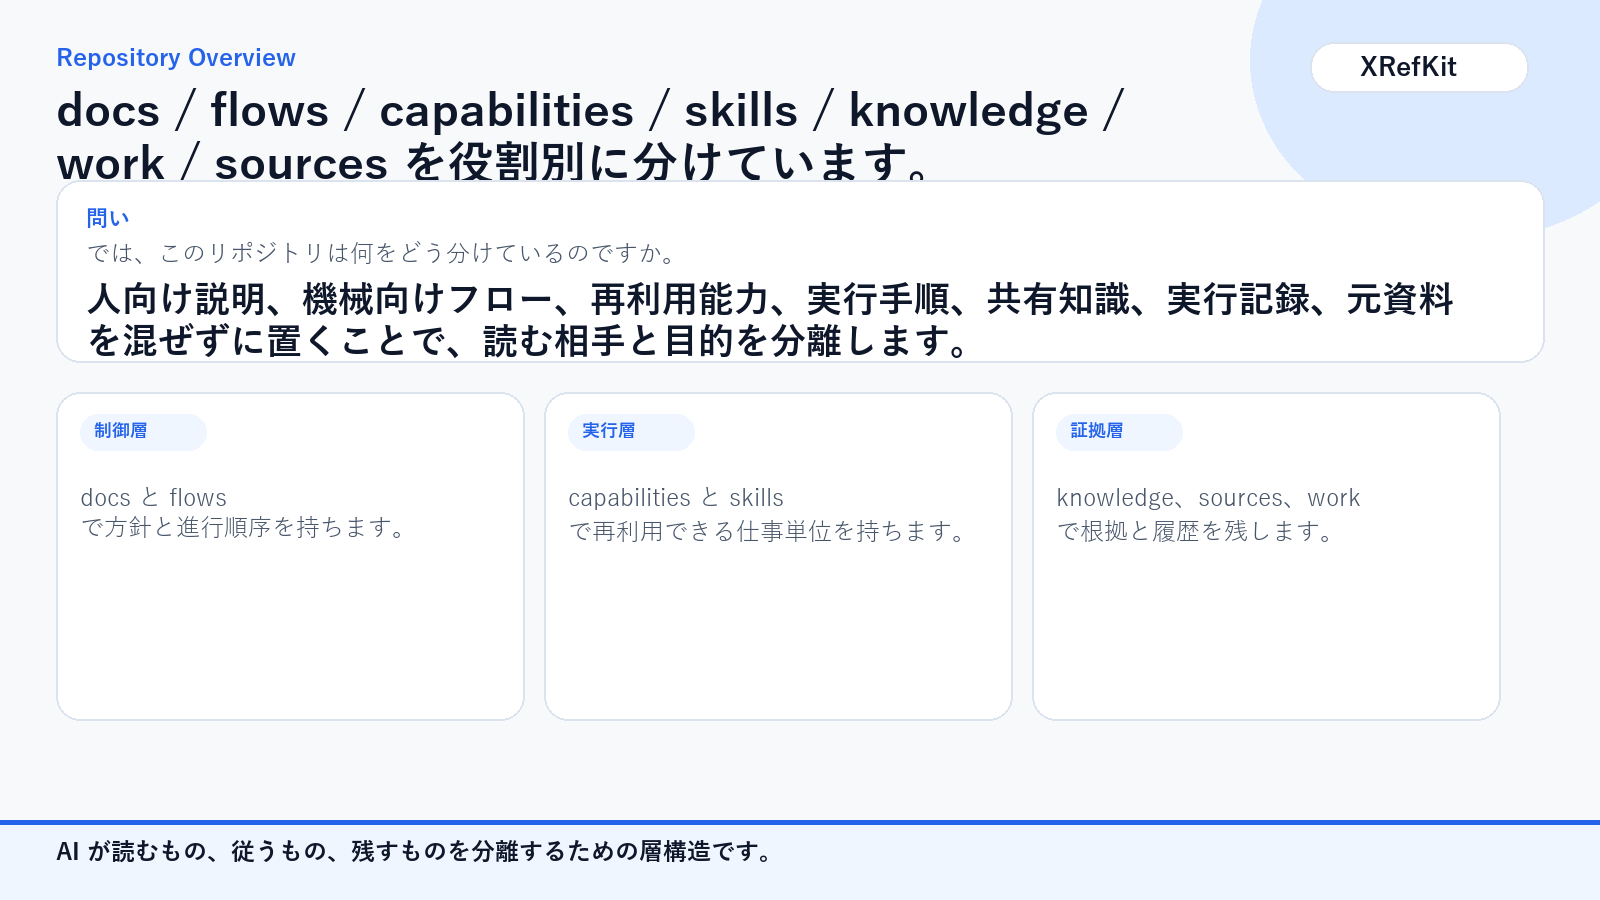
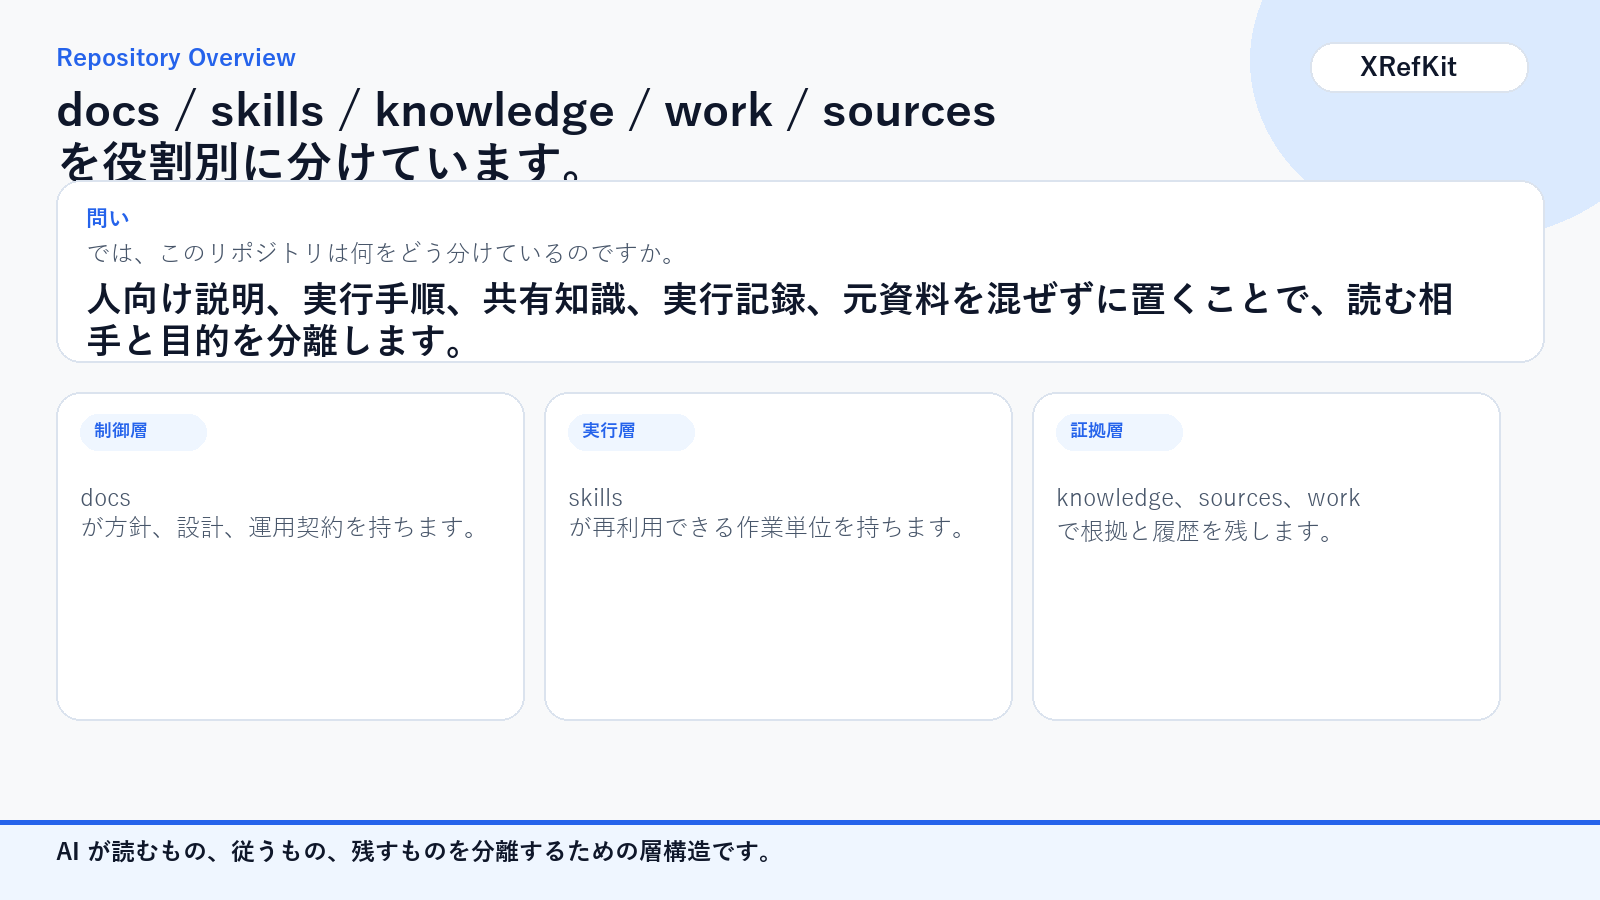
Update repository-overview deck to skill-centric model
Rewrite the 065 explainer slides that depicted the removed Flow and
Capability layers: the layers slide now separates docs / skills /
knowledge / work / sources (dropping flows/ and capabilities/), the
"needs" slide drops 流れ・能力, and the guard slide lists Skill contract
and workflow protocol instead of flow/capability. Regenerate the PIL
PNGs and the HTML from the updated render sources.

diff --git a/human-docs/ja/assets/065_xrefkit_repository_overview/03_layers.html b/human-docs/ja/assets/065_xrefkit_repository_overview/03_layers.html
@@ -2,7 +2,7 @@
 <html lang="ja">
 <head>
   <meta charset="utf-8" />
-  <title>`docs / flows / capabilities / skills / knowledge / work / sources` を役割別に分けています。</title>
+  <title>`docs / skills / knowledge / work / sources` を役割別に分けています。</title>
   <style>:root {
   --bg: #f8f9fa;
   --panel: #ffffff;
@@ -208,23 +208,23 @@ body {
     <header class="header">
       <div>
         <div class="eyebrow">Repository Overview</div>
-        <h1 class="title">`docs / flows / capabilities / skills / knowledge / work / sources` を役割別に分けています。</h1>
+        <h1 class="title">`docs / skills / knowledge / work / sources` を役割別に分けています。</h1>
       </div>
       <div class="brand">XRefKit</div>
     </header>
     <section class="summary">
       <div class="summary-label">問い</div>
       <div class="summary-copy">では、このリポジトリは何をどう分けているのですか。</div>
-      <div class="summary-title">人向け説明、機械向けフロー、再利用能力、実行手順、共有知識、実行記録、元資料を混ぜずに置くことで、読む相手と目的を分離します。</div>
+      <div class="summary-title">人向け説明、実行手順、共有知識、実行記録、元資料を混ぜずに置くことで、読む相手と目的を分離します。</div>
     </section>
     <section class="cards">
       <article class="card">
         <div class="card-tag">制御層</div>
-        <p>`docs` と `flows` で方針と進行順序を持ちます。</p>
+        <p>`docs` が方針、設計、運用契約を持ちます。</p>
       </article>
       <article class="card">
         <div class="card-tag">実行層</div>
-        <p>`capabilities` と `skills` で再利用できる仕事単位を持ちます。</p>
+        <p>`skills` が再利用できる作業単位を持ちます。</p>
       </article>
       <article class="card">
         <div class="card-tag">証拠層</div>

diff --git a/human-docs/ja/assets/065_xrefkit_repository_overview/02_not_docs.html b/human-docs/ja/assets/065_xrefkit_repository_overview/02_not_docs.html
@@ -224,7 +224,7 @@ body {
       </article>
       <article class="card">
         <div class="card-tag">必要な追加</div>
-        <p>知識の置き場所だけでなく、流れ、能力、Skill、記録の境界が必要です。</p>
+        <p>知識の置き場所だけでなく、Skill、記録、境界の定義が必要です。</p>
       </article>
       <article class="card">
         <div class="card-tag">結果</div>

diff --git a/human-docs/ja/assets/065_xrefkit_repository_overview/05_guard.html b/human-docs/ja/assets/065_xrefkit_repository_overview/05_guard.html
@@ -220,7 +220,7 @@ body {
     <section class="cards">
       <article class="card">
         <div class="card-tag">守るもの</div>
-        <p>startup policy、flow、capability、Skill contract などの上位制御です。</p>
+        <p>startup policy、Skill contract、workflow protocol などの上位制御です。</p>
       </article>
       <article class="card">
         <div class="card-tag">許すもの</div>

diff --git a/human-docs/ja/assets/065_xrefkit_repository_overview/03_layers_q.html b/human-docs/ja/assets/065_xrefkit_repository_overview/03_layers_q.html
@@ -2,7 +2,7 @@
 <html lang="ja">
 <head>
   <meta charset="utf-8" />
-  <title>`docs / flows / capabilities / skills / knowledge / work / sources` を役割別に分けています。</title>
+  <title>`docs / skills / knowledge / work / sources` を役割別に分けています。</title>
   <style>:root {
   --bg: #f8f9fa;
   --panel: #ffffff;

diff --git a/human-docs/ja/assets/065_xrefkit_repository_overview/render_pngs.py b/human-docs/ja/assets/065_xrefkit_repository_overview/render_pngs.py
@@ -39,7 +39,7 @@ SLIDES = [
         "copy": "ファイルがあるだけでは、知識の場所、手順の境界、判断の責任、確認のしかたが毎回ゆらぎます。XRefKit はその揺れを構造で減らします。",
         "cards": [
             ("保管だけの問題", "AI が毎回広く読んで迷い、古い文脈や余計な断片も拾いやすくなります。"),
-            ("必要な追加", "知識の置き場所だけでなく、流れ、能力、Skill、記録の境界が必要です。"),
+            ("必要な追加", "知識の置き場所だけでなく、Skill、記録、境界の定義が必要です。"),
             ("結果", "読ませ方と動かし方が分かれるので、再現しやすくなります。"),
         ],
         "takeaway": "情報の保管だけでは足りず、AI の読み方と働き方の構造まで必要です。",
@@ -47,11 +47,11 @@ SLIDES = [
     {
         "name": "03_layers",
         "question": "では、このリポジトリは何をどう分けているのですか。",
-        "title": "docs / flows / capabilities / skills / knowledge / work / sources を役割別に分けています。",
-        "copy": "人向け説明、機械向けフロー、再利用能力、実行手順、共有知識、実行記録、元資料を混ぜずに置くことで、読む相手と目的を分離します。",
+        "title": "docs / skills / knowledge / work / sources を役割別に分けています。",
+        "copy": "人向け説明、実行手順、共有知識、実行記録、元資料を混ぜずに置くことで、読む相手と目的を分離します。",
         "cards": [
-            ("制御層", "docs と flows で方針と進行順序を持ちます。"),
-            ("実行層", "capabilities と skills で再利用できる仕事単位を持ちます。"),
+            ("制御層", "docs が方針、設計、運用契約を持ちます。"),
+            ("実行層", "skills が再利用できる作業単位を持ちます。"),
             ("証拠層", "knowledge、sources、work で根拠と履歴を残します。"),
         ],
         "takeaway": "AI が読むもの、従うもの、残すものを分離するための層構造です。",
@@ -74,7 +74,7 @@ SLIDES = [
         "title": "Context direction guard が、下位入力で上位方針を書き換えさせないようにします。",
         "copy": "外部タスク入力、ツール結果、生成物は事実や材料として使えても、意図、権限、手順、範囲、エスカレーション経路までは上書きできません。",
         "cards": [
-            ("守るもの", "startup policy、flow、capability、Skill contract などの上位制御です。"),
+            ("守るもの", "startup policy、Skill contract、workflow protocol などの上位制御です。"),
             ("許すもの", "外部入力は根拠、補足、局所事実として利用できます。"),
             ("防ぐもの", "もっともらしい入力が勝手に目的や責任境界を変えることを防ぎます。"),
         ],
